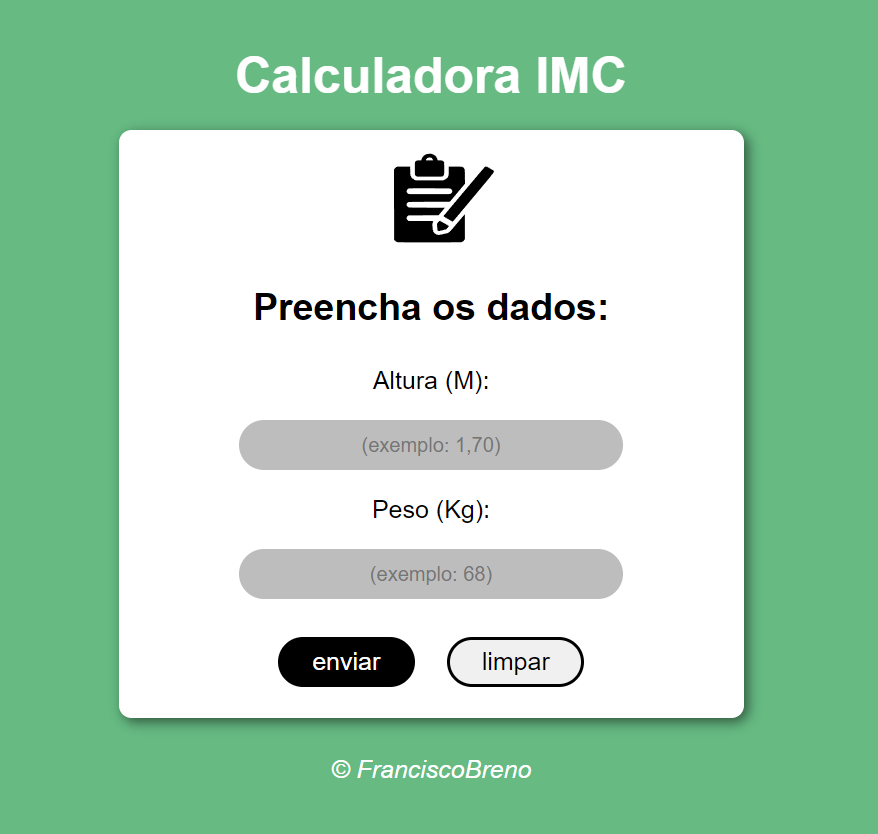
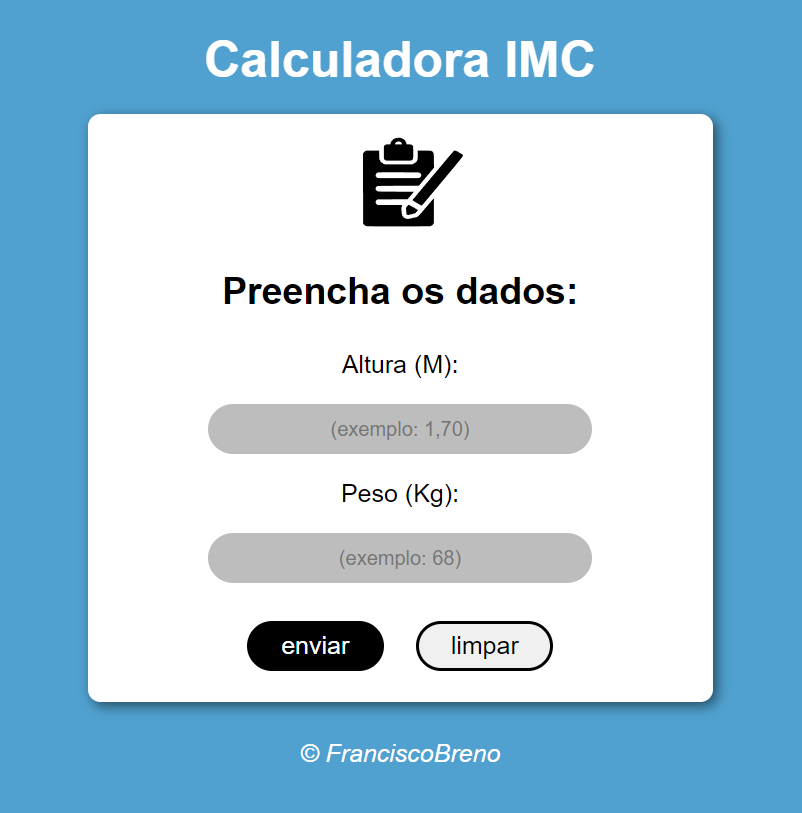
adicionado icone

diff --git a/index.html b/index.html
@@ -4,7 +4,8 @@
     <meta charset="UTF-8" />
     <meta name="viewport" content="width=device-width, initial-scale=1.0" />
     <link rel="stylesheet" href="./style/style.css" />
-    <title>Document</title>
+    <link rel="icon" href="imagens/icon.svg" />
+    <title>Calculadora IMC</title>
   </head>
   <body>
     <header>
